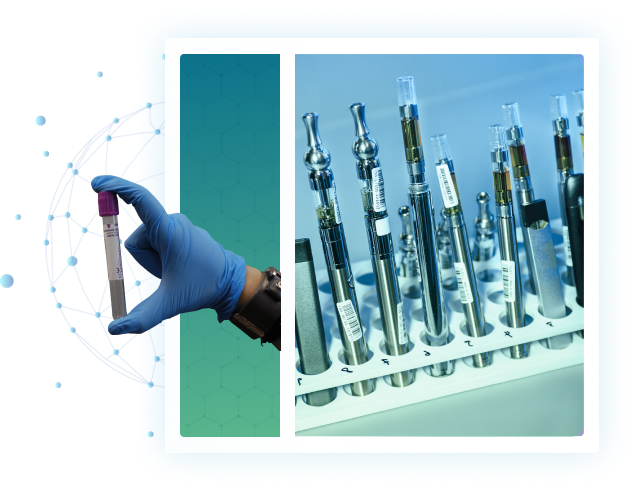
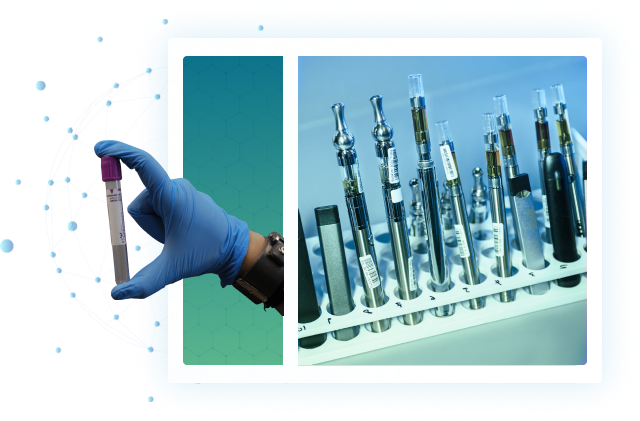
home changes

diff --git a/mkcbiotherapeutics/assets/global.css b/mkcbiotherapeutics/assets/global.css
@@ -871,6 +871,7 @@ h3 {
 
 .header_topbar {
   background: linear-gradient(90deg, #066d8b 0%, #5fba8d 100%);
+  max-height: 5px;
 }
 
 .header_topbar-icon img {
@@ -1845,6 +1846,10 @@ hr.OA_page.OApage-divider.OApage_divider-3 {
   margin-top: 50px;
 }
 
+.home .about__mkc--container {
+  padding-top: 0px;
+}
+
 @media (min-width: 768px) and (max-width: 990px) {
 
   .section4__container .about__mkc--texts,
@@ -2371,7 +2376,7 @@ hr.OA_page.OApage-divider.OApage_divider-3 {
   }
 
   .about__mkc-maincontainer {
-    padding-bottom: 45px;
+    padding-bottom: 0px;
   }
 
   .homepage_news-section .card4__container {
@@ -2674,7 +2679,7 @@ hr.OA_page.OApage-divider.OApage_divider-3 {
   }
 
   .home .abs_BannerImage {
-    top: 2.5%;
+    top: 15%;
     right: -3.5%;
     position: absolute;
   }
@@ -2752,6 +2757,10 @@ hr.OA_page.OApage-divider.OApage_divider-3 {
   .home .banner__image {
     margin-left: -20px;
     margin-right: -10px;
+  }
+
+  .home .banner-description {
+    padding-bottom: 20px;
   }
 }
 
